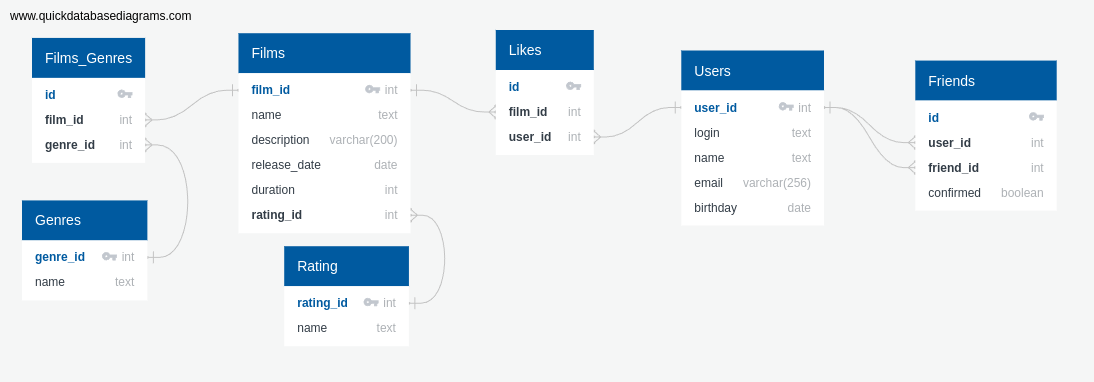
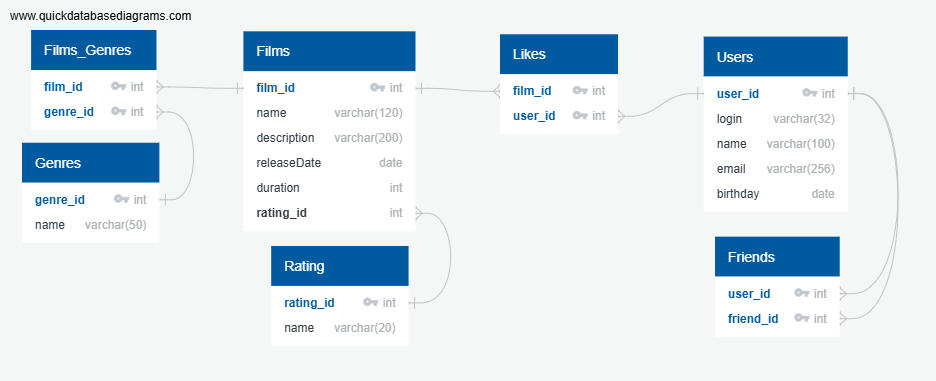
Исправления финала 12 спринта:  - Отредактирован sql код создания таблиц, изменен тип столбцов и поставлено ограничение на количество символов  - Изменена диаграмма и код таблиц для промежуточной проверки  - В методе по выводу всех фильмов и получение жанров для фильма, вынесены sql запросы из цикло

diff --git a/src/main/java/ru/yandex/practicum/filmorate/dao/FilmDbStorage.java b/src/main/java/ru/yandex/practicum/filmorate/dao/FilmDbStorage.java
@@ -4,6 +4,8 @@ import lombok.RequiredArgsConstructor;
 import lombok.extern.slf4j.Slf4j;
 import org.springframework.beans.factory.annotation.Qualifier;
 import org.springframework.dao.DataAccessException;
+import org.springframework.dao.DataIntegrityViolationException;
+import org.springframework.jdbc.core.BatchPreparedStatementSetter;
 import org.springframework.jdbc.core.JdbcTemplate;
 import org.springframework.jdbc.support.GeneratedKeyHolder;
 import org.springframework.stereotype.Repository;
@@ -11,15 +13,14 @@ import ru.yandex.practicum.filmorate.dao.mappers.FilmRowMapper;
 import ru.yandex.practicum.filmorate.dao.mappers.GenreRowMapper;
 import ru.yandex.practicum.filmorate.exception.DataConflictException;
 import ru.yandex.practicum.filmorate.exception.NotFoundException;
+import ru.yandex.practicum.filmorate.exception.ValidationException;
 import ru.yandex.practicum.filmorate.model.Film;
 import ru.yandex.practicum.filmorate.model.Genre;
 import ru.yandex.practicum.filmorate.model.Rating;
 import ru.yandex.practicum.filmorate.storage.film.FilmStorage;
 
+import java.sql.*;
 import java.sql.Date;
-import java.sql.PreparedStatement;
-import java.sql.Statement;
-import java.sql.Types;
 import java.util.*;
 
 @Repository
@@ -38,25 +39,34 @@ public class FilmDbStorage implements FilmStorage {
     private static final String UPDATE_QUERY = "UPDATE Films SET name = ?,description = ?, release_date = ?," +
             " duration = ?, rating_id = ? WHERE film_id = ?";
 
+    private static final String FIND_ALL_RATINGS_BY_FILMS = "SELECT f.film_id, r.rating_id, r.name FROM Films f " +
+            "JOIN Rating r ON f.rating_id = r.rating_id";
+
     private static final String ADD_LIKE_QUERY = "INSERT INTO Likes (film_id, user_id) VALUES (?, ?)";
     private static final String REMOVE_LIKE_QUERY = "DELETE FROM Likes WHERE film_id = ? AND user_id = ?";
     private static final String FIND_LIKE_BY_FILM_QUERY = "SELECT user_id FROM Likes WHERE film_id = ?";
+    private static final String FIND_ALL_LIKES = "SELECT film_id, user_id FROM Likes";
 
     private static final String CLEAR_GENRE_BY_FILM_QUERY = "DELETE FROM Films_Genres WHERE film_id = ?";
     private static final String ADD_GENRE_BY_FILM_QUERY = "INSERT INTO Films_Genres (film_id, genre_id) VALUES (?, ?)";
     private static final String FIND_GENRE_BY_FILM_QUERY = "SELECT g.* FROM Genres g " +
             "JOIN Films_Genres fg ON g.genre_id = fg.genre_id WHERE fg.film_id = ?";
+    private static final String FIND_ALL_GENRE_QUERY = "SELECT g.*, fg.film_id FROM Genres g " +
+            "JOIN Films_Genres fg ON g.genre_id = fg.genre_id";
 
     @Override
     public Collection<Film> findAll() {
         log.info("Поиск всех фильмов");
         Collection<Film> films = jdbc.query(FIND_ALL_QUERY, mapper);
-        for (Film f : films) {
-            f.setLikes(findLikeFilm(f.getId()));
-            if (f.getMpa() != null && f.getMpa().getId() != null) {
-                f.setMpa(findRatingsFilm(f.getMpa().getId()));
-            }
-            f.setGenres(findGenresFilm(f.getId()));
+
+        Map<Integer, Set<Integer>> likesByFilm = findAllLikes();
+        Map<Integer, Set<Genre>> genresByFilmS = findAllGenresByFilms();
+        Map<Integer, Rating> ratingByFilm = findAllRatingsByFilm();
+
+        for (Film film : films) {
+            film.setGenres(genresByFilmS.getOrDefault(film.getId(), Set.of()));
+            film.setLikes(likesByFilm.getOrDefault(film.getId(), Set.of()));
+            film.setMpa(ratingByFilm.getOrDefault(film.getId(), null));
         }
         return films;
     }
@@ -82,19 +92,24 @@ public class FilmDbStorage implements FilmStorage {
         log.info("Добавляем новый фильм");
         GeneratedKeyHolder keyHolder = new GeneratedKeyHolder();
 
-        jdbc.update(con -> {
-            PreparedStatement ps = con.prepareStatement(CREATE_QUERY, Statement.RETURN_GENERATED_KEYS);
-            ps.setString(1, film.getName());
-            ps.setString(2, film.getDescription());
-            ps.setDate(3, Date.valueOf(film.getReleaseDate()));
-            ps.setInt(4, film.getDuration());
-            if (film.getMpa() != null && film.getMpa().getId() != null) {
-                ps.setInt(5, film.getMpa().getId());
-            } else {
-                ps.setNull(5, Types.INTEGER);
-            }
-            return ps;
-        }, keyHolder);
+        try {
+            jdbc.update(con -> {
+                PreparedStatement ps = con.prepareStatement(CREATE_QUERY, Statement.RETURN_GENERATED_KEYS);
+                ps.setString(1, film.getName());
+                ps.setString(2, film.getDescription());
+                ps.setDate(3, Date.valueOf(film.getReleaseDate()));
+                ps.setInt(4, film.getDuration());
+                if (film.getMpa() != null && film.getMpa().getId() != null) {
+                    ps.setInt(5, film.getMpa().getId());
+                } else {
+                    ps.setNull(5, Types.INTEGER);
+                }
+                return ps;
+            }, keyHolder);
+        } catch (DataIntegrityViolationException e) {
+            throw new ValidationException("Ошибка валидации при сохранении в БД");
+        }
+
 
         Integer id = keyHolder.getKeyAs(Integer.class);
         if (id != null) {
@@ -116,19 +131,23 @@ public class FilmDbStorage implements FilmStorage {
         if (newFilm.getMpa() != null && newFilm.getMpa().getId() != null) {
             ratingId = newFilm.getMpa().getId();
         }
-        int rowsUpdated = jdbc.update(UPDATE_QUERY,
-                newFilm.getName(),
-                newFilm.getDescription(),
-                Date.valueOf(newFilm.getReleaseDate()),
-                newFilm.getDuration(),
-                ratingId,
-                newFilm.getId());
-        if (rowsUpdated == 0) {
-            throw new DataConflictException("Не удалось обновить данные");
+        try {
+            int rowsUpdated = jdbc.update(UPDATE_QUERY,
+                    newFilm.getName(),
+                    newFilm.getDescription(),
+                    Date.valueOf(newFilm.getReleaseDate()),
+                    newFilm.getDuration(),
+                    ratingId,
+                    newFilm.getId());
+            if (rowsUpdated == 0) {
+                throw new DataConflictException("Не удалось обновить данные");
+            }
+            setFilmGenres(newFilm.getId(), newFilm.getGenres());
+            log.info("Обновлен фильм под id: {}", newFilm.getId());
+            return findFilm(newFilm.getId());
+        } catch (DataIntegrityViolationException e) {
+            throw new ValidationException("Ошибка валидации при сохранении в БД");
         }
-        setFilmGenres(newFilm.getId(), newFilm.getGenres());
-        log.info("Обновлен фильм под id: {}", newFilm.getId());
-        return findFilm(newFilm.getId());
     }
 
     @Override
@@ -149,10 +168,33 @@ public class FilmDbStorage implements FilmStorage {
 
     private void setFilmGenres(Integer filmId, Set<Genre> genres) {
         jdbc.update(CLEAR_GENRE_BY_FILM_QUERY, filmId);
-        for (Genre genre : genres) {
-            jdbc.update(ADD_GENRE_BY_FILM_QUERY, filmId, genre.getId());
-        }
+        jdbc.batchUpdate(ADD_GENRE_BY_FILM_QUERY, new BatchPreparedStatementSetter() {
+            public void setValues(PreparedStatement ps, int i) throws SQLException {
+                Genre genre = genres.stream().toList().get(i);
+                ps.setInt(1, filmId);
+                ps.setInt(2, genre.getId());
+            }
+
+            public int getBatchSize() {
+                return genres.size();
+            }
+        });
         log.info("Обновлен список жанров фильма (id): {}", filmId);
+    }
+
+    private Map<Integer, Set<Genre>> findAllGenresByFilms() {
+        log.info("Поиск жанров для каждого фильма");
+        return jdbc.query(FIND_ALL_GENRE_QUERY, rs -> {
+            Map<Integer, Set<Genre>> map = new HashMap<>();
+            while (rs.next()) {
+                int filmId = rs.getInt("film_id");
+                Genre genre = new Genre();
+                genre.setId(rs.getInt("genre_id"));
+                genre.setName(rs.getString("name"));
+                map.computeIfAbsent(filmId, k -> new HashSet<>()).add(genre);
+            }
+            return map;
+        });
     }
 
     private Set<Integer> findLikeFilm(int id) {
@@ -161,9 +203,37 @@ public class FilmDbStorage implements FilmStorage {
                 (rs, rowNum) -> rs.getInt("user_id"), id));
     }
 
+    private Map<Integer, Set<Integer>> findAllLikes() {
+        log.info("Поиск лайков для каждого фильма");
+        return jdbc.query(FIND_ALL_LIKES, rs -> {
+            Map<Integer, Set<Integer>> map = new HashMap<>();
+            while (rs.next()) {
+                int filmId = rs.getInt("film_id");
+                int userId = rs.getInt("user_id");
+                map.computeIfAbsent(filmId, k -> new HashSet<>()).add(userId);
+            }
+            return map;
+        });
+    }
+
     private Rating findRatingsFilm(int id) {
         log.info("Отправляем запрос рейтинга для фильма");
         return rStorage.findRating(id);
+    }
+
+    private Map<Integer, Rating> findAllRatingsByFilm() {
+        log.info("Поиск рейтинга для всех фильмов");
+        return jdbc.query(FIND_ALL_RATINGS_BY_FILMS, rs -> {
+            Map<Integer, Rating> map = new HashMap<>();
+            while (rs.next()) {
+                int filmId = rs.getInt("film_id");
+                Rating rating = new Rating();
+                rating.setId(rs.getInt("rating_id"));
+                rating.setName(rs.getString("name"));
+                map.put(filmId, rating);
+            }
+            return map;
+        });
     }
 
     private Set<Genre> findGenresFilm(int id) {

diff --git a/src/main/java/ru/yandex/practicum/filmorate/dao/UserDbStorage.java b/src/main/java/ru/yandex/practicum/filmorate/dao/UserDbStorage.java
@@ -4,12 +4,14 @@ import lombok.RequiredArgsConstructor;
 import lombok.extern.slf4j.Slf4j;
 import org.springframework.beans.factory.annotation.Qualifier;
 import org.springframework.dao.DataAccessException;
+import org.springframework.dao.DataIntegrityViolationException;
 import org.springframework.jdbc.core.JdbcTemplate;
 import org.springframework.jdbc.support.GeneratedKeyHolder;
 import org.springframework.stereotype.Repository;
 import ru.yandex.practicum.filmorate.dao.mappers.UserRowMapper;
 import ru.yandex.practicum.filmorate.exception.DataConflictException;
 import ru.yandex.practicum.filmorate.exception.NotFoundException;
+import ru.yandex.practicum.filmorate.exception.ValidationException;
 import ru.yandex.practicum.filmorate.model.User;
 import ru.yandex.practicum.filmorate.storage.user.UserStorage;
 
@@ -61,19 +63,23 @@ public class UserDbStorage implements UserStorage {
     @Override
     public User create(User user) {
         GeneratedKeyHolder keyHolder = new GeneratedKeyHolder();
+        try {
+            jdbc.update(con -> {
+                log.info("Добавляем нового пользователя");
+                PreparedStatement ps = con.prepareStatement(CREATE_QUERY, Statement.RETURN_GENERATED_KEYS);
+                ps.setString(1, user.getLogin());
+                if (user.getName() == null || user.getName().isBlank()) {
+                    user.setName(user.getLogin());
+                }
+                ps.setString(2, user.getName());
+                ps.setString(3, user.getEmail());
+                ps.setDate(4, Date.valueOf(user.getBirthday()));
+                return ps;
+            }, keyHolder);
+        } catch (DataIntegrityViolationException e) {
+            throw new ValidationException("Ошибка валидации при сохранении в БД");
+        }
 
-        jdbc.update(con -> {
-            log.info("Добавляем нового пользователя");
-            PreparedStatement ps = con.prepareStatement(CREATE_QUERY, Statement.RETURN_GENERATED_KEYS);
-            ps.setString(1, user.getLogin());
-            if (user.getName() == null || user.getName().isBlank()) {
-                user.setName(user.getLogin());
-            }
-            ps.setString(2, user.getName());
-            ps.setString(3, user.getEmail());
-            ps.setDate(4, Date.valueOf(user.getBirthday()));
-            return ps;
-        }, keyHolder);
 
         Integer id = keyHolder.getKeyAs(Integer.class);
         if (id != null) {
@@ -89,16 +95,20 @@ public class UserDbStorage implements UserStorage {
     public User update(User newUser) {
         log.info("Обновляем пользователя");
         findUser(newUser.getId());
-        int rowsUpdated = jdbc.update(UPDATE_QUERY,
-                newUser.getLogin(),
-                newUser.getName(),
-                newUser.getEmail(),
-                Date.valueOf(newUser.getBirthday()),
-                newUser.getId());
-        if (rowsUpdated == 0) {
-            throw new DataConflictException("Не удалось обновить данные");
+        try {
+            int rowsUpdated = jdbc.update(UPDATE_QUERY,
+                    newUser.getLogin(),
+                    newUser.getName(),
+                    newUser.getEmail(),
+                    Date.valueOf(newUser.getBirthday()),
+                    newUser.getId());
+            if (rowsUpdated == 0) {
+                throw new DataConflictException("Не удалось обновить данные");
+            }
+            return findUser(newUser.getId());
+        } catch (DataIntegrityViolationException e) {
+            throw new ValidationException("Ошибка валидации при сохранении в БД");
         }
-        return findUser(newUser.getId());
     }
 
     @Override

diff --git a/README.md b/README.md
@@ -4,7 +4,7 @@
 ![изображение](ER-diagram/QuickDBD-12_sprint.png)
 
 * [Ссылка](https://app.quickdatabasediagrams.com/#/d/i89NpA) на диограмму.
-* [Скрипт](ER-diagram/QuickDBD-12_sprint.sql) базы данных в SQL (метот генерации ключа взят из PostgreSQL).
+* [Скрипт](ER-diagram/QuickDBD-12_sprint.sql) базы данных в SQL на основе H2.
 
 ## Примеры запросов к контроллерам с выгрузкой данных
 <sup>С учетом пройденого материала</sup>
